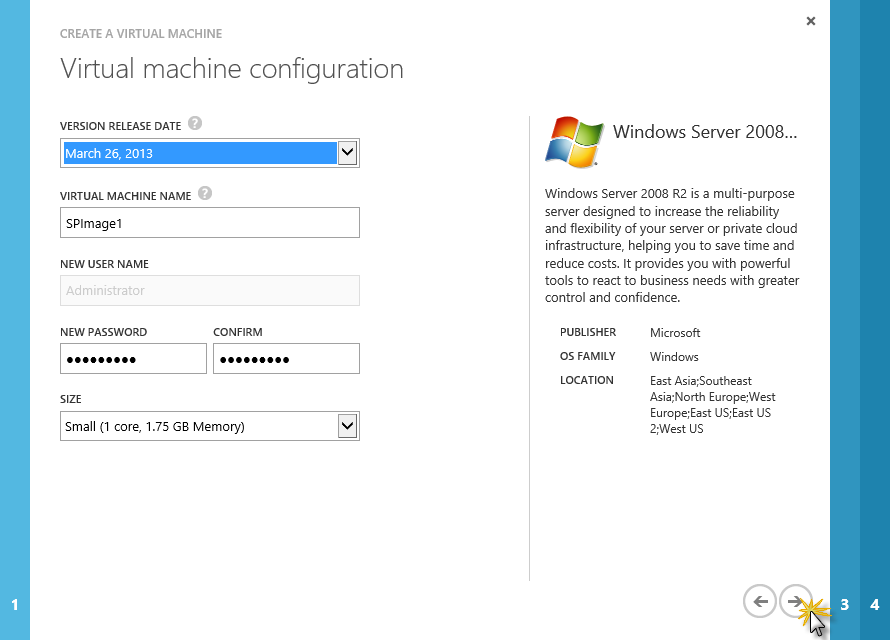
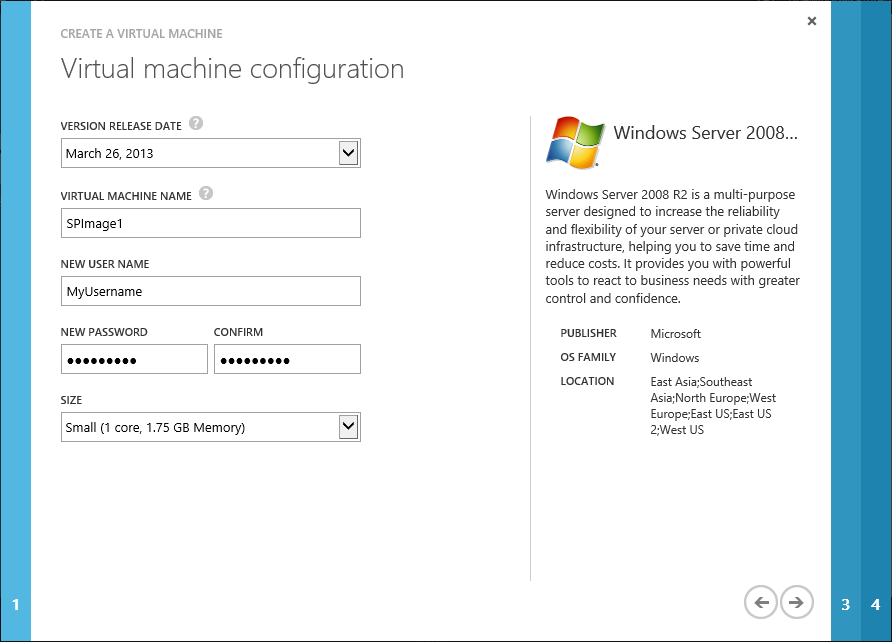
Fixed lab due to latest vm username changes in the portal

diff --git a/HOL.md b/HOL.md
@@ -161,7 +161,7 @@ In this task, you will create a Windows Server 2008 Virtual Machine using the Wi
 	
 	_Virtual machine operating system selection_
 
-1. Leave the **version release date** with the default value. Set the virtual machine's name to _SPImage1_ and set a new password for the machine's Administrator by completing the **New Password** and **Confirm Password** fields. Then set the **Size** to _Small_ and click the **Next** button.
+1. Leave the **version release date** with the default value. Set the virtual machine's name to _SPImage1_ and set a new username and password for it by completing the **New User Name**, **New Password**, and **Confirm Password** fields. Then set the **Size** to _Small_ and click the **Next** button.
 
 	![New Virtual Machine Configuration](Images/new-vm-configuration3.png?raw=true "New VM Configuration")
 
@@ -184,7 +184,7 @@ In this task, you will download and install SharePoint 2010 and its dependencies
 
 1. In the **Windows Azure Portal**, within **Virtual Machines** section, select the _SPImage1_ virtual machine you created in Task 1, and click **Connect**.
 
-1. Download the remote desktop client. Click **Open** and log on using the Administrator's credentials you defined when creating the virtual machine.
+1. Download the remote desktop client. Click **Open** and log on using the credentials you defined when creating the virtual machine.
 
 1. Now, you need to download and install **SharePoint 2010**. In order to enable downloads from Internet Explorer you will need to update **Internet Explorer Enhanced Security Configuration**. In the virtual machine, open **Server Manager** from **Start | All Programs | Administrative Tools**.
 
@@ -538,7 +538,7 @@ In this task, you will verify that the SharePoint Server was correctly configure
 	_Create Site Collection_
  
 1. Leave the **Quota Template** with the default value and click **OK** to create the new Site Collection.
-1. Once the Site Collection is ready, you will see a successfully created message. To test the site, click URL shown.
+1. Once the Site Collection is ready, you will see a successfully created message. To test the site, click the URL shown.
 
 	![Site Collection Created](Images/site-collection-created.png?raw=true)
 	 
